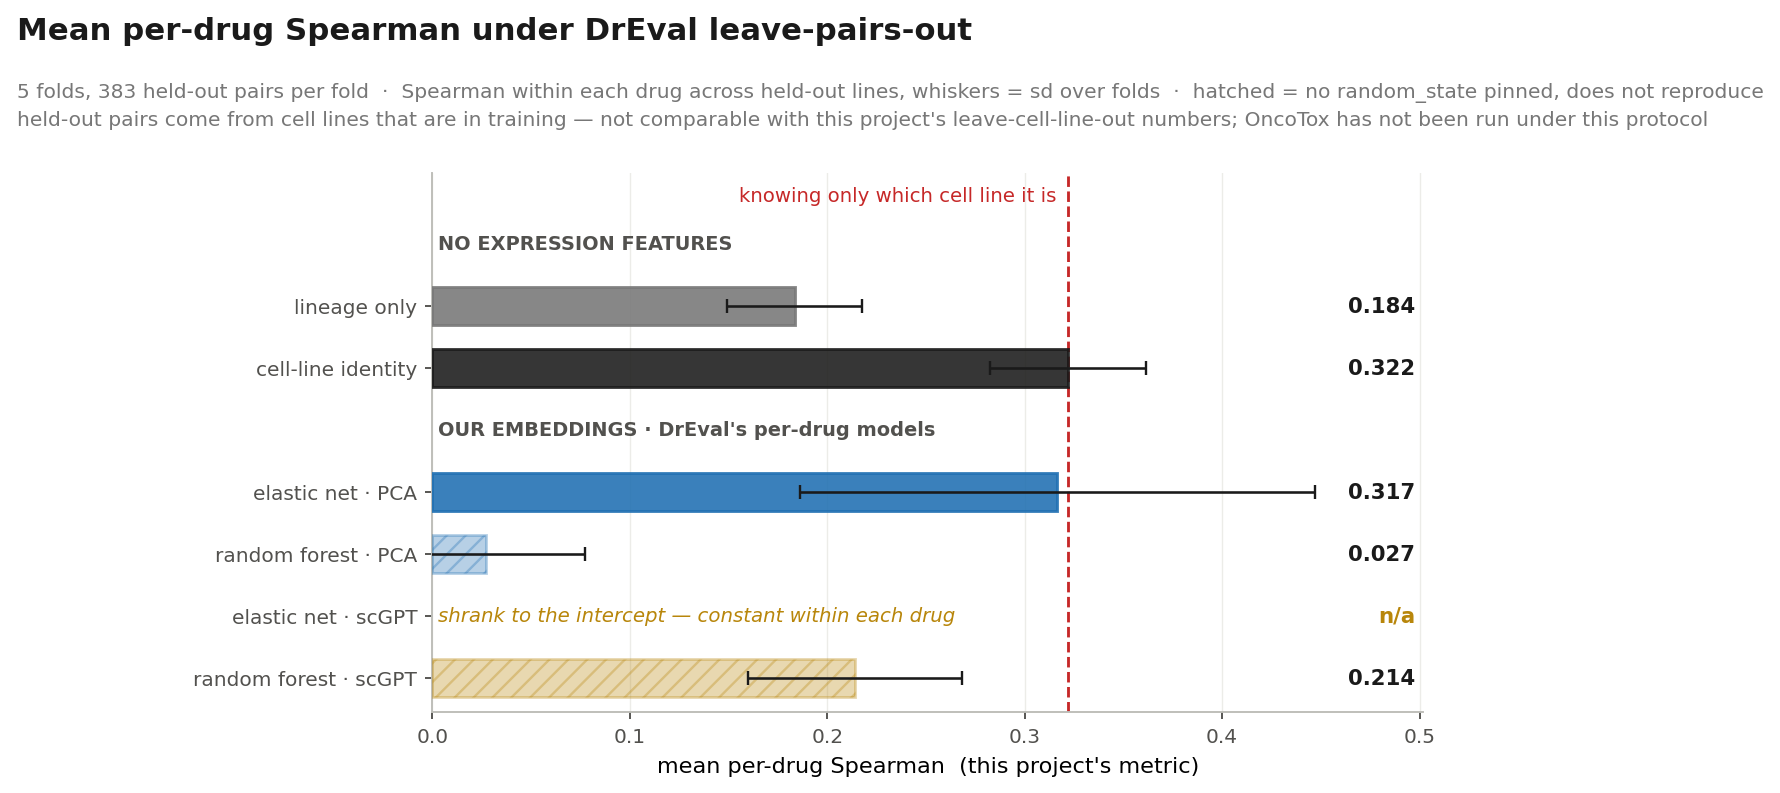
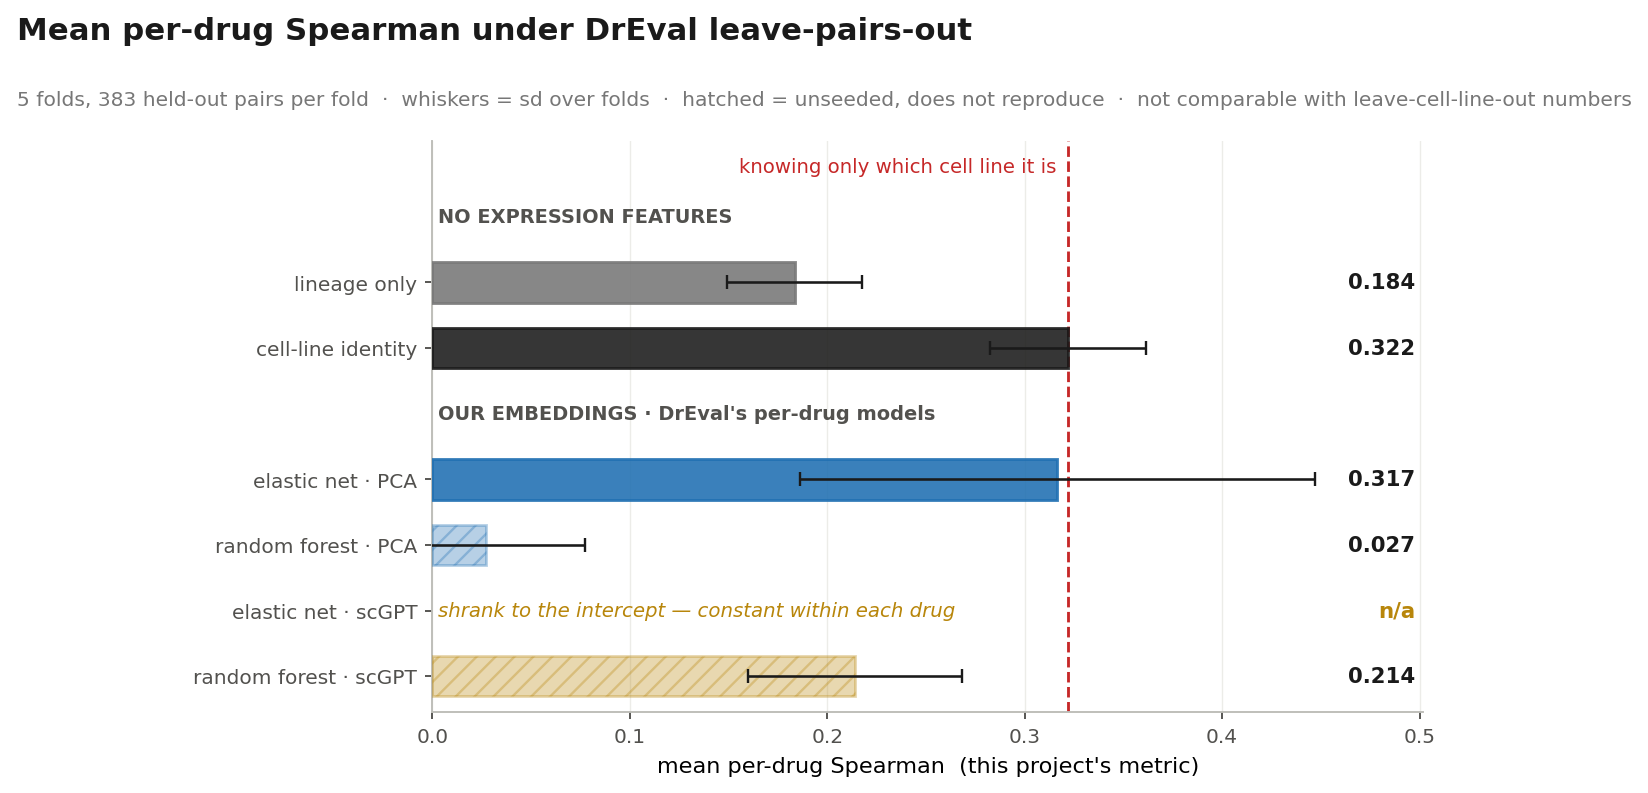
figures: one subtitle line, and percentiles instead of box-plot jargon
Selin: "too much text at the top of the figure, keep it scientific".

Both new figures carried a two-line subtitle. Trimmed to one, keeping only what
cannot be read off the plot: n, the non-default whisker convention, and the row
ordering. Dropped from panel_response: direction and the meaning of 1.0 (the
axis and the marked line carry them, and the audience is an expert cancer lab).
Dropped from lpo_bias: the "held-out pairs come from lines that are in training"
sentence -- "leave-pairs-out" already says it -- keeping the warning that
matters as one clause.

Then, on "what is IQR and what do you mean quartiles and whiskers": stated as
percentiles instead. "box = 25th-75th percentile, line = median, whiskers =
5th-95th, ordered by box width" is no longer than the jargon, strictly more
precise -- "whiskers" alone does not say WHICH convention, and 5-95 is not
matplotlib's default 1.5xIQR -- and the presenter should not have to define a
term in order to answer a question about her own figure.

diff --git a/docs/make_figures.py b/docs/make_figures.py
@@ -1752,14 +1752,22 @@ def build_panel_response():
     order = sorted(range(len(panel)),
                    key=lambda k: np.nanpercentile(auc[:, k], 75) - np.nanpercentile(auc[:, k], 25))
     fig, ax = plt.subplots(figsize=(8.6, 4.8))
-    fig.subplots_adjust(top=0.83, left=0.24)
+    fig.subplots_adjust(top=0.86, left=0.24)
     fig.suptitle("Response (auc_cc) across cell lines, per panel compound",
                  x=0.02, ha="left", fontsize=13, fontweight="bold", color=INK, y=1.0)
-    fig.text(0.02, 0.915,
-             f"one point per cell line, {int(np.isfinite(auc).any(1).sum())} train+val lines  ·  "
-             "box = quartiles, whiskers 5-95 %  ·  ordered by interquartile range\n"
-             "low = the compound killed this line  ·  1.0 = no effect at any dose",
-             ha="left", va="top", fontsize=8.6, color=GREY, linespacing=1.5)
+    # One line, and only what cannot be inferred from the plot: n, the whisker convention (5-95 is
+    # NOT matplotlib's default 1.5xIQR) and the row ordering. Direction and the meaning of 1.0 were
+    # here too and are gone -- this is an expert audience and the axis carries them.
+    #
+    # Stated as PERCENTILES rather than as "quartiles / whiskers / IQR" (Selin, 15.08.2026, who
+    # asked what they meant). The percentile form is no longer and strictly more precise -- the
+    # jargon does not say *which* whisker convention, which is the one thing here that is
+    # non-default -- and the presenter should not have to define a term to answer a question.
+    fig.text(0.02, 0.905,
+             f"{int(np.isfinite(auc).any(1).sum())} train+val cell lines  ·  "
+             "box = 25th–75th percentile, line = median, whiskers = 5th–95th  ·  "
+             "ordered by box width",
+             ha="left", va="top", fontsize=8.6, color=GREY)
 
     rng = np.random.default_rng(0)                # jitter only, never the values
     for row, k in enumerate(order):
@@ -1853,18 +1861,20 @@ def build_lpo_bias():
     HEADERS = {0: "NO EXPRESSION FEATURES", 1: "OUR EMBEDDINGS · DrEval's per-drug models"}
 
     fig, ax = plt.subplots(figsize=(9.4, 4.6))
-    fig.subplots_adjust(top=0.80, left=0.28)
+    fig.subplots_adjust(top=0.84, left=0.28)
     # Title names what is plotted, per rule 1. It read "Where the within-drug ranking of cell lines
     # comes from" in the first draft -- a conclusion-shaped title, and exactly what rule 1 forbids.
     fig.suptitle("Mean per-drug Spearman under DrEval leave-pairs-out",
                  x=0.02, ha="left", fontsize=13, fontweight="bold", color=INK, y=1.0)
-    fig.text(0.02, 0.915,
+    # Trimmed to one line on the same rule as build_panel_response(): only what cannot be read off
+    # the plot. The long "held-out pairs come from lines that are in training" clause is gone --
+    # "leave-pairs-out" already says it to anyone who knows the protocol, and the warning that
+    # matters (not comparable with LCO) is kept as a single clause rather than a sentence.
+    fig.text(0.02, 0.905,
              f"5 folds, {int(g['n'].iloc[0] / 5):,} held-out pairs per fold  ·  "
-             "Spearman within each drug across held-out lines, whiskers = sd over folds  ·  "
-             "hatched = no random_state pinned, does not reproduce\n"
-             "held-out pairs come from cell lines that are in training — not comparable with this "
-             "project's leave-cell-line-out numbers; OncoTox has not been run under this protocol",
-             ha="left", va="top", fontsize=8.6, color=GREY, linespacing=1.5)
+             "whiskers = sd over folds  ·  hatched = unseeded, does not reproduce  ·  "
+             "not comparable with leave-cell-line-out numbers",
+             ha="left", va="top", fontsize=8.6, color=GREY)
 
     ref = float(g.loc["NaiveCellLineMeanPredictor", "m"])
     xmax = max(0.46, float((g["m"] + g["s"]).max()) + 0.055)
